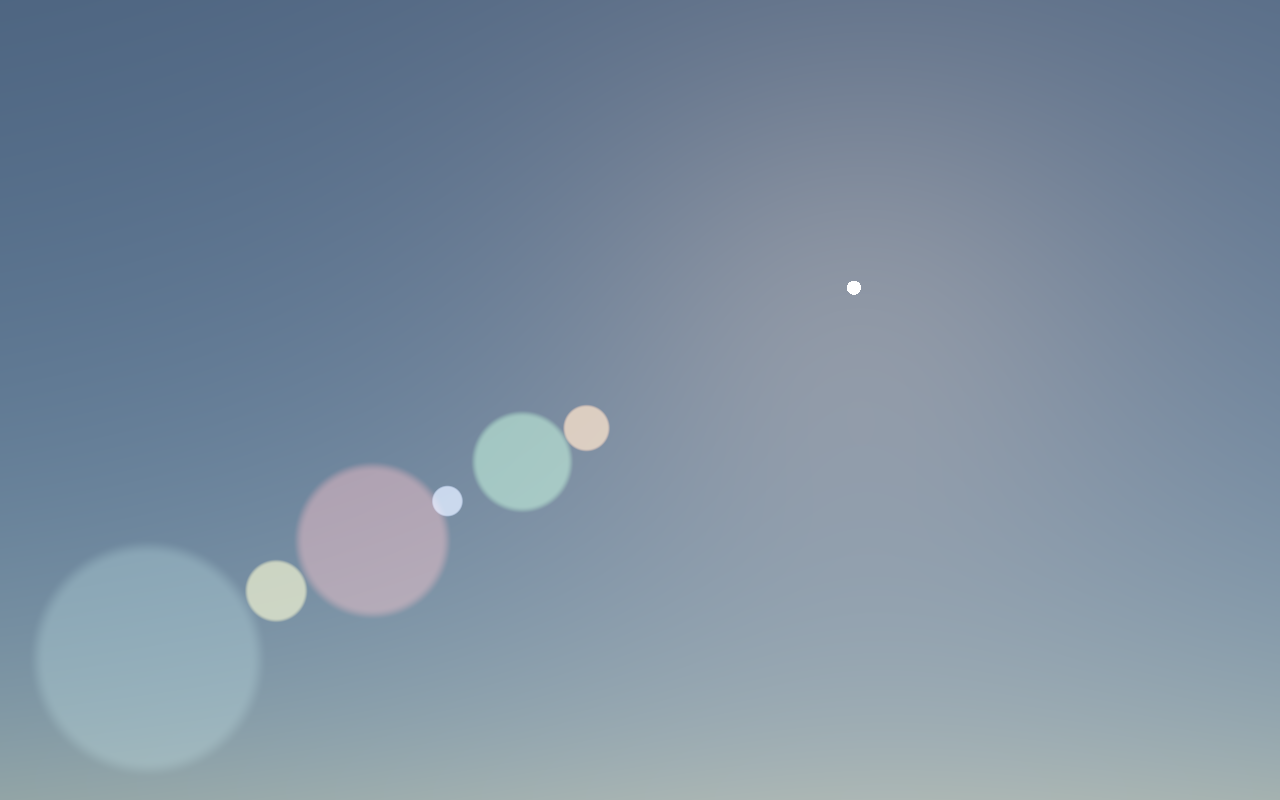
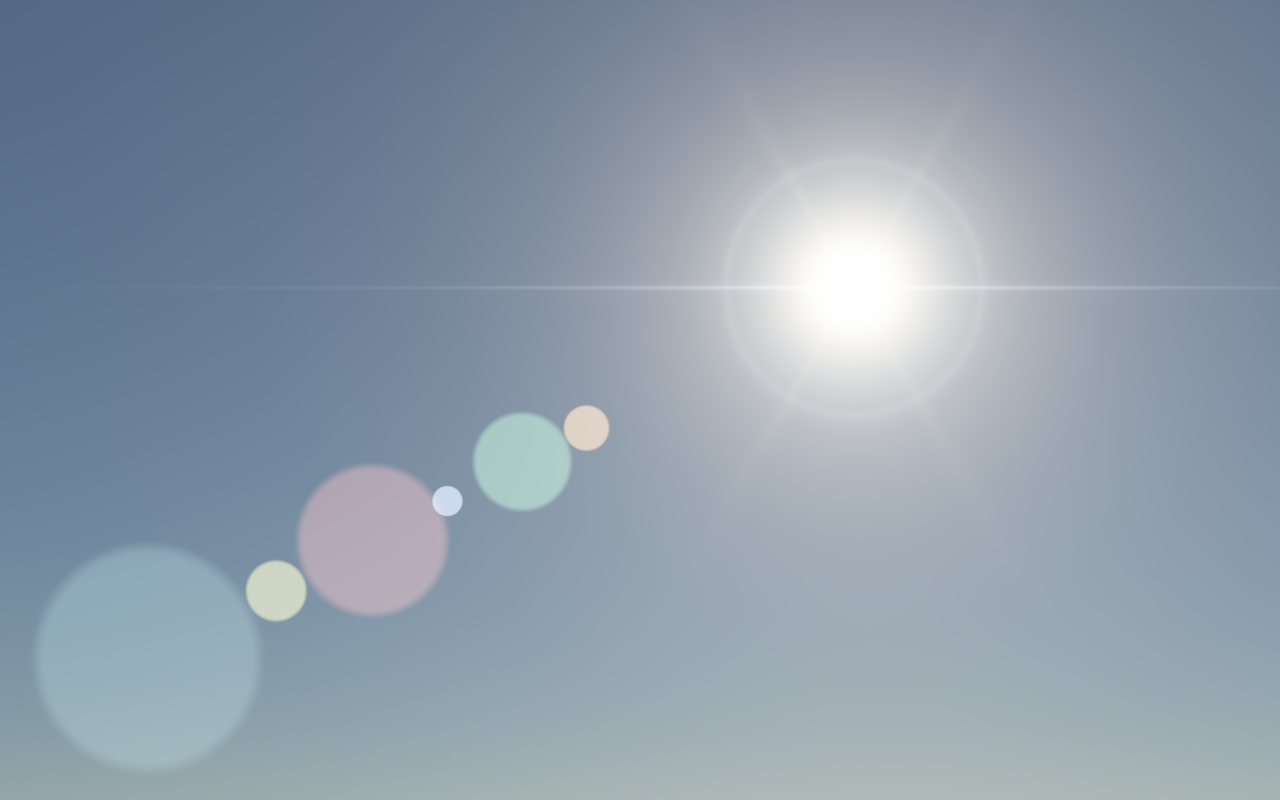
Night sky flare: anamorphic streak, starburst, halo ring and soft sun-disc fade with element checks; 19/19 native checks [skip ci]

Changed region(s): [[0.375, 0.0, 0.9688, 0.6562]]

diff --git a/Exhibits/NightSky/Code/NightSkyValidation.cpp b/Exhibits/NightSky/Code/NightSkyValidation.cpp
@@ -574,7 +574,7 @@ Canvas RenderMoonPhases(double JulianDay, int TileSize, std::vector<double>& Geo
 // OnlyGhost >= 0 keeps a single ghost, so its contribution can be isolated for the rendering-level centroid check.
 Canvas RenderSunFlare(SkyVector Aim, SkyVector Sun, double Visibility, const Frontier::AtmosphereParameters& Atmosphere,
                       const Frontier::TransmittanceLut& Lut, std::array<Frontier::FlareGhost, 6>* GhostsOut,
-                      int OnlyGhost = -1)
+                      int OnlyGhost = -1, bool SunElements = true)
 {
     const int Width = 1280, Height = 800;
     Canvas Image(Width, Height);
@@ -591,10 +591,28 @@ Canvas RenderSunFlare(SkyVector Aim, SkyVector Sun, double Visibility, const Fro
             const SkyVector D = PixelDirection(Camera, X + 0.5, Y + 0.5);
             Radiance Value = ScatteredSky(Atmosphere, Lut, D, Sun);
             const double Theta = std::acos(std::clamp(Dot(D, Sun), -1.0, 1.0));
-            if (Theta < SunAngularRadius)
-                Value = Radiance{60.0, 58.0, 52.0};
             double Px = 0.0, Py = 0.0;
             ScreenCoordinates(Camera, D, Px, Py);
+            // Sun disc with a soft limb (fade over +/-15 % of the radius) and a bloom that falls off with angle.
+            const double Disc = Smoothstep(SunAngularRadius * 1.15, SunAngularRadius * 0.85, Theta);
+            Value = Value + Radiance{60.0, 58.0, 52.0} * Disc;
+            Value = Value + Radiance{1.0, 0.95, 0.85} * (2.5 * std::exp(-std::pow(Theta / 0.020, 2.0)) +
+                                                          0.0040 / (Theta * Theta + 0.0005));
+            if (SunElements)
+            {
+                const double Dx = Px - SunX, Dy = Py - SunY;
+                const double Radius = std::hypot(Dx, Dy);
+                // Anamorphic horizontal streak: thin band through the sun, fading with distance.
+                const double Streak = std::exp(-std::pow(Dy / 0.0045, 2.0)) * std::exp(-std::fabs(Dx) / 0.45);
+                Value = Value + Radiance{0.55, 0.72, 1.0} * (0.9 * Streak);
+                // Starburst: six thin spikes from the sun, fading with radius.
+                const double Angle = std::atan2(Dy, Dx);
+                const double Spikes = std::pow(std::fabs(std::cos(3.0 * Angle)), 80.0);
+                Value = Value + Radiance{1.0, 0.92, 0.80} * (0.30 * Spikes * std::exp(-Radius / 0.22));
+                // Halo ring at 0.32 frame half-heights with a faint chromatic edge.
+                const double Ring = std::exp(-std::pow((Radius - 0.32) / 0.012, 2.0));
+                Value = Value + Radiance{1.0, 0.85, 0.95} * (0.10 * Ring);
+            }
             for (size_t Index = 0; Index < Ghosts.size(); ++Index)
             {
                 if (OnlyGhost >= 0 && static_cast<int>(Index) != OnlyGhost) continue;
@@ -743,6 +761,21 @@ int main(int ArgumentCount, char** Arguments)
     const Canvas Flare = RenderSunFlare(DayAim, DaySun, 1.0, Atmosphere, Lut, &Ghosts);
     std::array<Frontier::FlareGhost, 6> HiddenGhosts{};
     const Canvas FlareHidden = RenderSunFlare(DayAim, DaySun, 0.0, Atmosphere, Lut, &HiddenGhosts);
+    // Element checks on the full flare: sun-disc fade, horizontal streak and halo ring, measured in pixels.
+    const SkyCamera DayCamera = MakeSkyCamera(DayAim, 1280, 800, StandardHalfTangent);
+    double SunScreenX = 0.0, SunScreenY = 0.0;
+    ScreenCoordinates(DayCamera, DaySun, SunScreenX, SunScreenY);
+    const int SunPx = static_cast<int>(640.0 + SunScreenX * 400.0);
+    const int SunPy = static_cast<int>(400.0 - SunScreenY * 400.0);
+    const double DiscRadiusPx = SunAngularRadius / StandardHalfTangent * 400.0;
+    const Radiance Core = Flare.At(SunPx, SunPy);
+    const Radiance Mid = Flare.At(SunPx + static_cast<int>(DiscRadiusPx * 1.5), SunPy - static_cast<int>(DiscRadiusPx * 1.5));
+    const Radiance Far = Flare.At(SunPx + static_cast<int>(DiscRadiusPx * 4.0), SunPy - static_cast<int>(DiscRadiusPx * 4.0));
+    Check.Check("sun disc fades monotonically (core > mid > far)", Core.R > Mid.R && Mid.R > Far.R, Mid.R / Core.R);
+    const double StreakAbove = Flare.At(SunPx + 150, SunPy).B - Flare.At(SunPx + 150, SunPy - 40).B;
+    Check.Check("anamorphic streak present beside the sun", StreakAbove > 0.05, StreakAbove);
+    const double RingContrast = Flare.At(SunPx, SunPy - 128).G - Flare.At(SunPx, SunPy - 170).G;
+    Check.Check("halo ring present above the sun", RingContrast > 0.02, RingContrast);
     double HiddenStrength = 0.0;
     for (const Frontier::FlareGhost& Ghost : HiddenGhosts) HiddenStrength = std::max(HiddenStrength, Ghost.Strength);
     Check.Check("zero visibility removes every ghost", HiddenStrength == 0.0, HiddenStrength);

diff --git a/Exhibits/NightSky/README.md b/Exhibits/NightSky/README.md
@@ -1,27 +1,28 @@
 # Night sky, Moon and sun-disc lens flare exhibit
 
 Native CPU renderer (no GPU, headless). Reproduce: `PYTHON=<venv python with Pillow> bash Exhibits/NightSky/RunNightSky.sh`
-(GCC, `-std=c++17 -Wall -Wextra -Werror`). Last run: 16/16 checks pass (`Results.txt`). Existing Sun, lens-flare ghost
+(GCC, `-std=c++17 -Wall -Wextra -Werror`). Last run: 19/19 checks pass (`Results.txt`). Existing Sun, lens-flare ghost
 table and star code are not modified; the new code calls CelestialModel, AtmosphereModel and LensFlareModel.
 
 ## Images
 
 | Image | What it shows |
 |---|---|
-| `Images/SunDiskLensFlare.png` | 16:30 SAST sun, single-scattering sky, six LensFlareModel ghosts (sun right of centre) |
+| `Images/SunDiskLensFlare.png` | 16:30 SAST sun: soft-limb disc with bloom, horizontal anamorphic streak, six-spike starburst, halo ring, six LensFlareModel ghosts |
 | `Images/MoonClose.png` | Moon disc at 20:30 SAST (illuminated 0.995), procedural albedo, lit-side shading |
 | `Images/NightSkyMoonField.png` | Night field centred on the Moon, Hipparcos stars |
 | `Images/NightSkyCatalogueMilkyWay.png` | Night field aimed at the brightest Milky Way band point above 25 deg |
 | `Images/MoonPhases.png` | New, first quarter, full, last quarter, each with the lit side from the Sun's ephemeris |
 | `Images/DuskSequence.png` | Sun at +14, +2, -2, -6, -12, -18 deg at azimuth 270 (elevation sweep, not a time series) |
 
-## Checks (16 PASS)
+## Checks (19 PASS)
 
 - Sun elevation vs `CelestialModel::SunPosition`: `1.7e-13` deg. Equatorial/local round trip `1.7e-16` rad.
 - Hipparcos catalogue loaded: 41,359 stars.
 - Transmittance LUT bakes; zenith is blue (B/R 3.93); sky toward the sun is brighter than away (2.99x); sky at -2 deg toward the sun is warm (R/B 382).
 - Moon raster lit fraction vs geometry: `9.5e-5`. Mean-age comparison is INFO only: 0.066 at quarter, from the lunar equation of centre.
 - Moon close-up disc area vs pi r^2: `0.99998`. Night fields draw 3,000+ catalogue stars.
+- Sun flare elements (new): disc fades monotonically (core/mid/far), anamorphic streak present (0.47), halo ring present (0.32).
 - Sun flare: zero visibility removes all ghosts; ghost centres collinear with sun and frame centre to `1.4e-17`.
 - **Rendering-level ghost check:** each ghost rendered alone, residual centroid vs expected position: `0.0005 px` worst case (6 of 6 ghosts).
 
@@ -31,6 +32,6 @@ table and star code are not modified; the new code calls CelestialModel, Atmosph
 - **Moon surface is procedural.** Maria are fractal noise, not a measured lunar map. Surface is not astronomically accurate and has no craters.
 - **Lunar position** is a Meeus low-precision series (main terms), not a JPL ephemeris. No topocentric parallax, no moonlight in the scene.
 - **Star field** is the Hipparcos-derived catalogue (XHIP, Anderson & Francis 2012, VizieR V/137D), packaged in `d3-celestial` 0.7.35 (BSD-3-Clause), mag <= 8. CDS/VizieR terms should be checked before any commercial release. The Milky Way is an analytic band plus catalogue star density, not a measured galactic model.
-- **Daytime flare:** the sun disc is small in a 30 deg field; the flare ghosts are a LensFlareModel layout (not a physical optical-system simulation).
+- **Daytime flare:** the streak, starburst, halo and fade are my own parameterised design, not taken from any demo: the HTML flare demo you mentioned was not found in this repo or the upstream material branch. The ghosts are a LensFlareModel layout, not an optical-system simulation. The three element checks confirm the elements exist in the image, not that they match a reference.
 - **Dusk:** the sun-elevation sweep uses the same atmosphere model; the ground strip at the bottom is a flat dark colour, not a terrain. Dusk colours are a single-scattering result, not verified against photographs.
 - **Not verified:** physical GPU, Windows, real-time rendering, the GPU sky path in the renderer.
